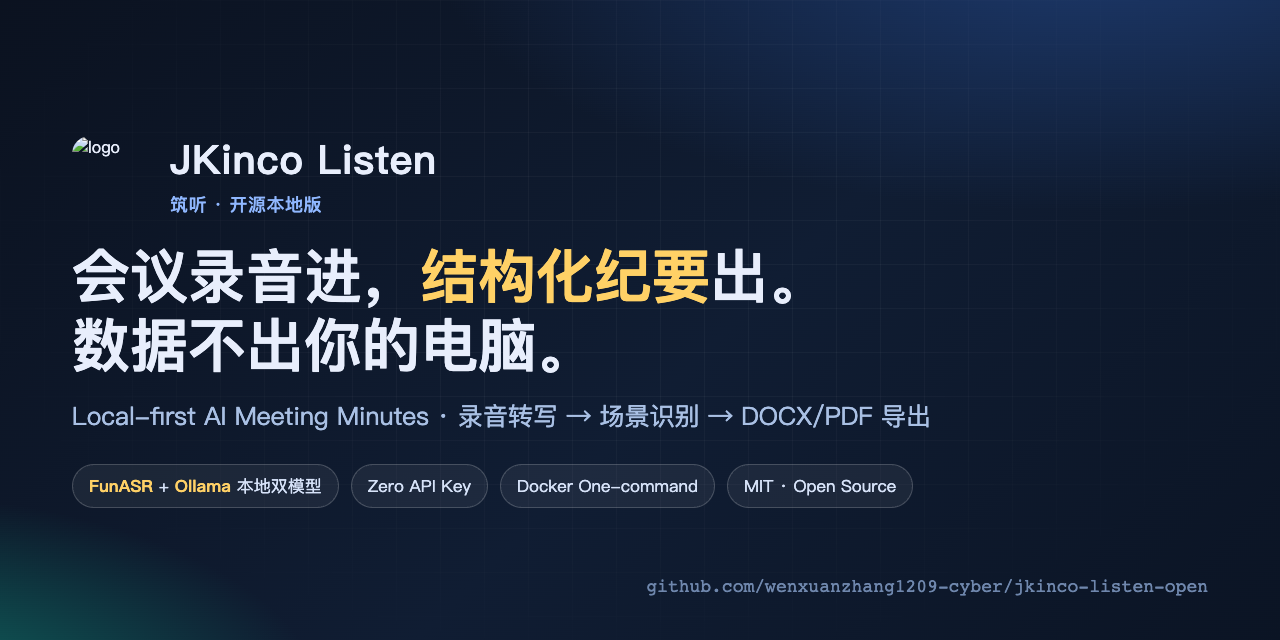
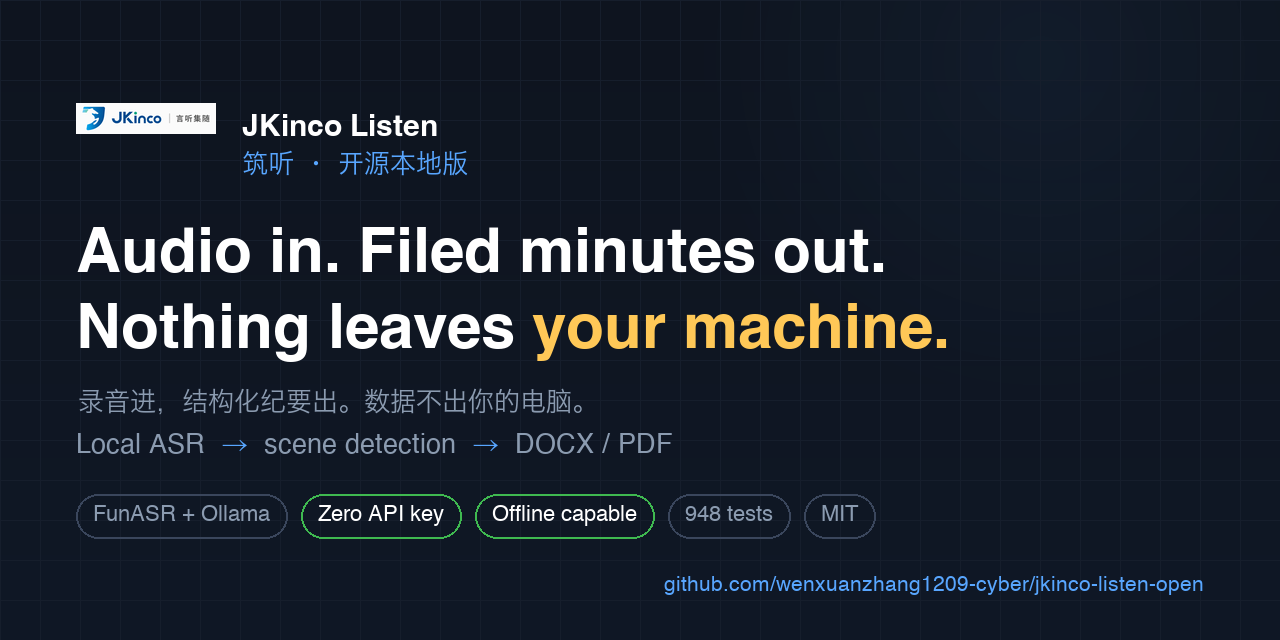
重做社交预览图，并把生成方式写成脚本
仓库里原先那张 docs/social-preview.png 有两个问题，而且没法修 ——
它没有任何生成方式，改一个字都得重新找设计工具：

1. 左上角 logo 是加载失败的占位符（图上能直接看到 alt 文本）。
2. 全中文。这张图出现的场合是 HN / Reddit / Twitter 卡片，
   英文读者一个字看不懂。

改成 scripts/build_social_preview.py，英文主张在前、中文作副标题，
logo 从本地 assets/ 读取所以不会再坏。

卡片上的每个标签都能在仓库里查到，不写形容词：
FunASR + Ollama、Zero API key、Offline capable、948 tests（实测
pytest --collect-only 948）、MIT。

写脚本过程中撞到的坑记在注释里：箭头「→」用拉丁字体画会变成方块，
PIL 不报错，只有看产物才能发现 —— 生成成功不等于画对了。

注意：这张图不会自动生效。GitHub 的社交预览只能在网页上设置：
仓库 → Settings → General → Social preview → Upload an image

diff --git a/scripts/build_social_preview.py b/scripts/build_social_preview.py
@@ -1,0 +1,168 @@
+#!/usr/bin/env python3
+"""生成 GitHub 社交预览图（分享链接时显示的那张卡片）。
+
+    python3 scripts/build_social_preview.py
+
+写成脚本而不是手工导出一张 PNG，是因为手工产物没法维护：仓库里原先那张
+`docs/social-preview.png` 没有任何生成方式，改一个字都得重新找设计工具，
+而且它的 logo 是一个加载失败的占位符 —— 从图上就能看出来，但没人能修。
+
+尺寸固定 1280×640：GitHub 的推荐值，也是 Twitter/Slack/Discord 卡片的安全比例。
+文案以英文为主：这张图出现的场合（HN、Reddit、Twitter）以英文读者为主，
+中文放副标题。
+
+依赖：pillow。中文字体从系统里找，找不到就退回英文单语版本而不是画出方块。
+"""
+from __future__ import annotations
+
+import sys
+from pathlib import Path
+
+ROOT = Path(__file__).resolve().parent.parent
+OUTPUT = ROOT / "docs" / "social-preview.png"
+
+W, H = 1280, 640
+BG_TOP = (13, 17, 23)          # GitHub 深色底
+BG_BOTTOM = (16, 24, 38)
+ACCENT = (88, 166, 255)        # 蓝
+ACCENT_2 = (63, 185, 80)       # 绿
+AMBER = (255, 200, 87)
+WHITE = (255, 255, 255)
+MUTED = (139, 155, 176)
+
+#: 中文字体候选。macOS 与常见 Linux 发行版都覆盖到。
+CJK_FONTS = [
+    "/System/Library/Fonts/PingFang.ttc",
+    "/System/Library/Fonts/Hiragino Sans GB.ttc",
+    "/usr/share/fonts/opentype/noto/NotoSansCJK-Regular.ttc",
+    "/usr/share/fonts/truetype/wqy/wqy-zenhei.ttc",
+]
+LATIN_FONTS = [
+    "/System/Library/Fonts/Helvetica.ttc",
+    "/System/Library/Fonts/Supplemental/Arial.ttf",
+    "/usr/share/fonts/truetype/dejavu/DejaVuSans.ttf",
+]
+
+
+def _font(paths: list[str], size: int, index: int = 0):
+    from PIL import ImageFont
+
+    for path in paths:
+        if Path(path).exists():
+            try:
+                return ImageFont.truetype(path, size, index=index)
+            except OSError:
+                continue
+    return None
+
+
+def main() -> int:
+    try:
+        from PIL import Image, ImageDraw
+    except ImportError:
+        sys.exit("需要 pillow：pip install pillow")
+
+    image = Image.new("RGB", (W, H), BG_TOP)
+    draw = ImageDraw.Draw(image)
+
+    # 竖向渐变 + 右上角的一团光，避免大片死黑
+    for y in range(H):
+        ratio = y / H
+        draw.line(
+            [(0, y), (W, y)],
+            fill=tuple(int(a + (b - a) * ratio) for a, b in zip(BG_TOP, BG_BOTTOM)),
+        )
+    glow = Image.new("RGB", (W, H), BG_BOTTOM)
+    glow_draw = ImageDraw.Draw(glow)
+    for radius in range(360, 0, -12):
+        alpha = (360 - radius) / 360 * 0.10
+        glow_draw.ellipse(
+            [1040 - radius, 60 - radius, 1040 + radius, 60 + radius],
+            fill=tuple(int(b + (a - b) * alpha) for a, b in zip(ACCENT, BG_BOTTOM)),
+        )
+    image = Image.blend(image, glow, 0.55)
+    draw = ImageDraw.Draw(image)
+
+    # 细网格，密度低到只提供质感
+    for x in range(0, W, 40):
+        draw.line([(x, 0), (x, H)], fill=(22, 30, 44), width=1)
+    for y in range(0, H, 40):
+        draw.line([(0, y), (W, y)], fill=(22, 30, 44), width=1)
+
+    latin_bold = _font(LATIN_FONTS, 30, index=1) or _font(LATIN_FONTS, 30)
+    title = _font(LATIN_FONTS, 62, index=1) or _font(LATIN_FONTS, 62)
+    cjk_sub = _font(CJK_FONTS, 26)
+    body = _font(LATIN_FONTS, 27)
+    chip = _font(LATIN_FONTS, 22)
+    url = _font(LATIN_FONTS, 21)
+
+    # 真的把 logo 画进去。原先那张图的 logo 是加载失败的占位符 —— 用本地文件
+    # 而不是外链，图就不会再坏。
+    logo_path = ROOT / "assets" / "jkinco_logo_cropped.png"
+    x0 = 76
+    if logo_path.exists():
+        logo = Image.open(logo_path).convert("RGBA")
+        # 按宽度缩放而不是塞进正方形：logo 是横版的，thumbnail((84,84)) 会让它
+        # 只有 24px 高，在 1280 宽的卡片上小到看不清。
+        logo = logo.resize((140, max(1, round(logo.height * 140 / logo.width))),
+                           Image.LANCZOS)
+        image.paste(logo, (x0, 118 - logo.height // 2), logo)
+        x0 += logo.width + 26
+
+    if latin_bold:
+        draw.text((x0, 112), "JKinco Listen", font=latin_bold, fill=WHITE)
+    if cjk_sub:
+        draw.text((x0, 150), "筑听 · 开源本地版", font=cjk_sub, fill=ACCENT)
+
+    # 主张：英文在前，因为这张图主要出现在英文语境里
+    if title:
+        draw.text((76, 224), "Audio in. Filed minutes out.", font=title, fill=WHITE)
+        draw.text((76, 300), "Nothing leaves ", font=title, fill=WHITE)
+        offset = draw.textlength("Nothing leaves ", font=title)
+        draw.text((76 + offset, 300), "your machine.", font=title, fill=AMBER)
+    if cjk_sub:
+        draw.text((78, 388), "录音进，结构化纪要出。数据不出你的电脑。", font=cjk_sub, fill=MUTED)
+
+    # 分段画，箭头单独用 CJK 字体。
+    #
+    # 第一版整行用 Helvetica 画，箭头「→」渲染成了方块 —— 拉丁字体没有这个字形，
+    # 而 PIL 不会报错，只会画一个豆腐块。这种错只能靠**看一眼产物**发现，
+    # 生成成功不等于画对了。
+    if body:
+        arrow_font = _font(CJK_FONTS, 27) or body
+        x = 76
+        for index, part in enumerate(["Local ASR", "scene detection", "DOCX / PDF"]):
+            if index:
+                draw.text((x, 432), "\u2192", font=arrow_font, fill=ACCENT)
+                x += draw.textlength("\u2192", font=arrow_font) + 16
+            draw.text((x, 432), part, font=body, fill=MUTED)
+            x += draw.textlength(part, font=body) + 16
+
+    # 事实性标签。每一条都能在仓库里查到，不写形容词。
+    chips = ["FunASR + Ollama", "Zero API key", "Offline capable", "948 tests", "MIT"]
+    x, y = 76, 494
+    for index, text in enumerate(chips):
+        if not chip:
+            break
+        width = draw.textlength(text, font=chip) + 34
+        colour = ACCENT_2 if index in (1, 2) else (58, 70, 92)
+        draw.rounded_rectangle([x, y, x + width, y + 44], radius=22,
+                               outline=colour, width=2)
+        draw.text((x + 17, y + 10), text, font=chip, fill=WHITE if index in (1, 2) else MUTED)
+        x += width + 14
+
+    if url:
+        text = "github.com/wenxuanzhang1209-cyber/jkinco-listen-open"
+        draw.text((W - 76 - draw.textlength(text, font=url), 574), text, font=url, fill=ACCENT)
+
+    OUTPUT.parent.mkdir(parents=True, exist_ok=True)
+    image.save(OUTPUT, optimize=True)
+    print(f"已生成 {OUTPUT.relative_to(ROOT)}  {image.size[0]}x{image.size[1]}  "
+          f"{OUTPUT.stat().st_size / 1024:.0f} KB")
+    print("\n这张图不会自动生效 —— GitHub 的社交预览只能在网页上设置：")
+    print("  仓库 → Settings → General → Social preview → Upload an image")
+    return 0
+
+
+if __name__ == "__main__":
+    raise SystemExit(main())
